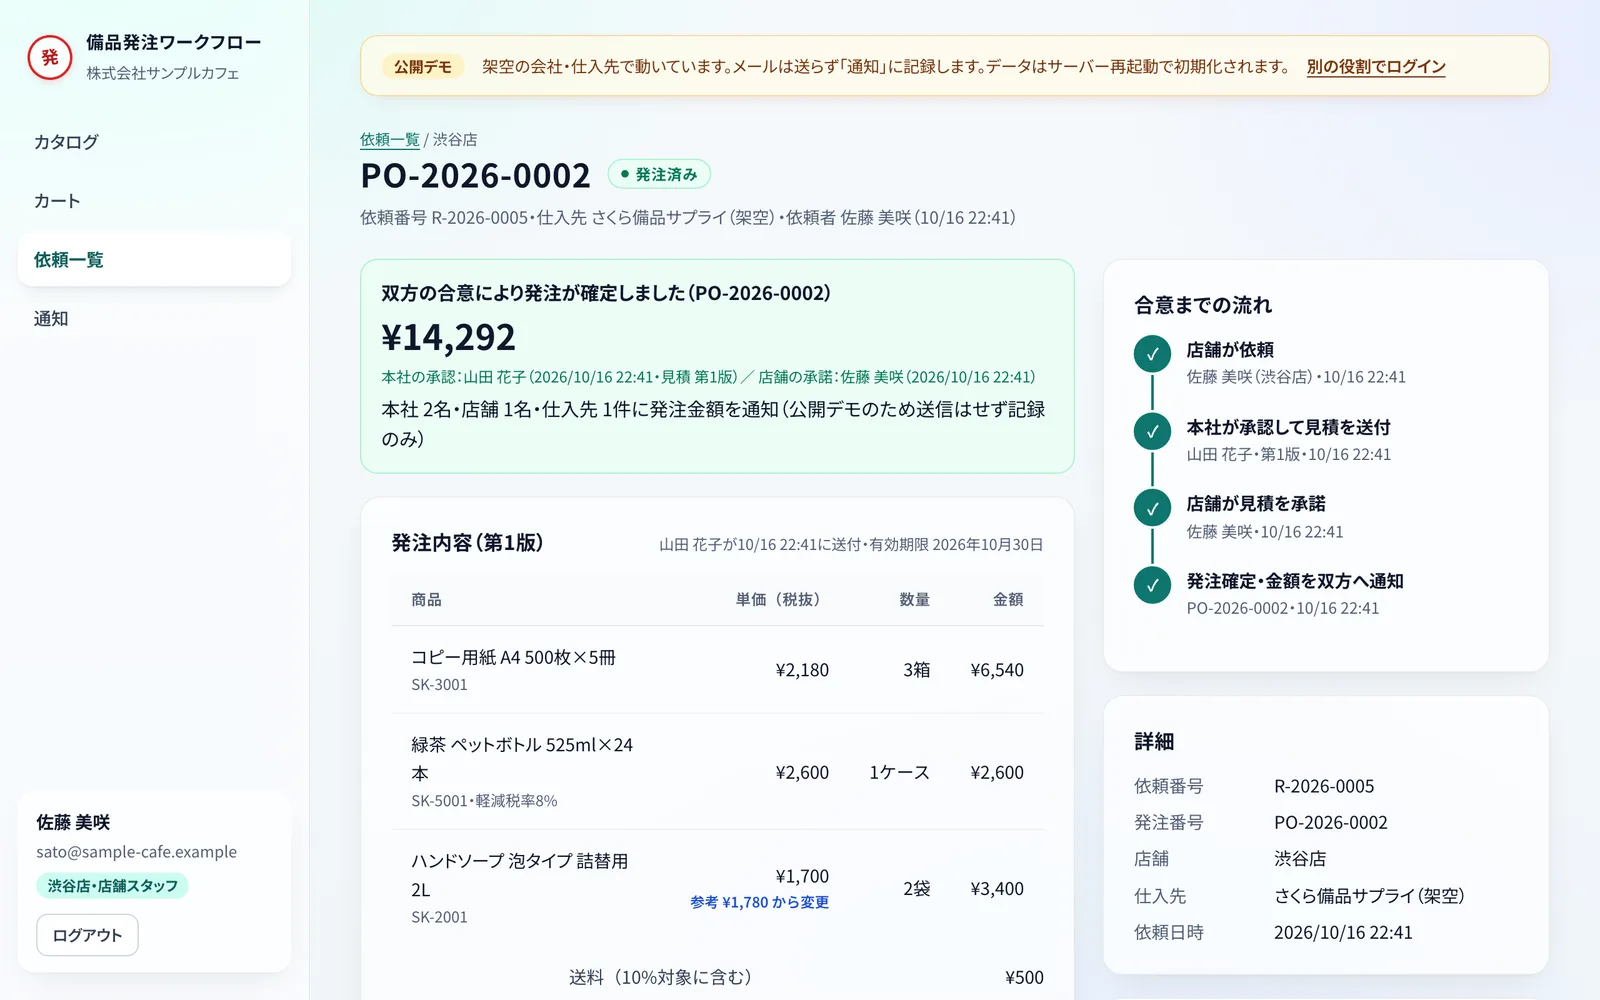
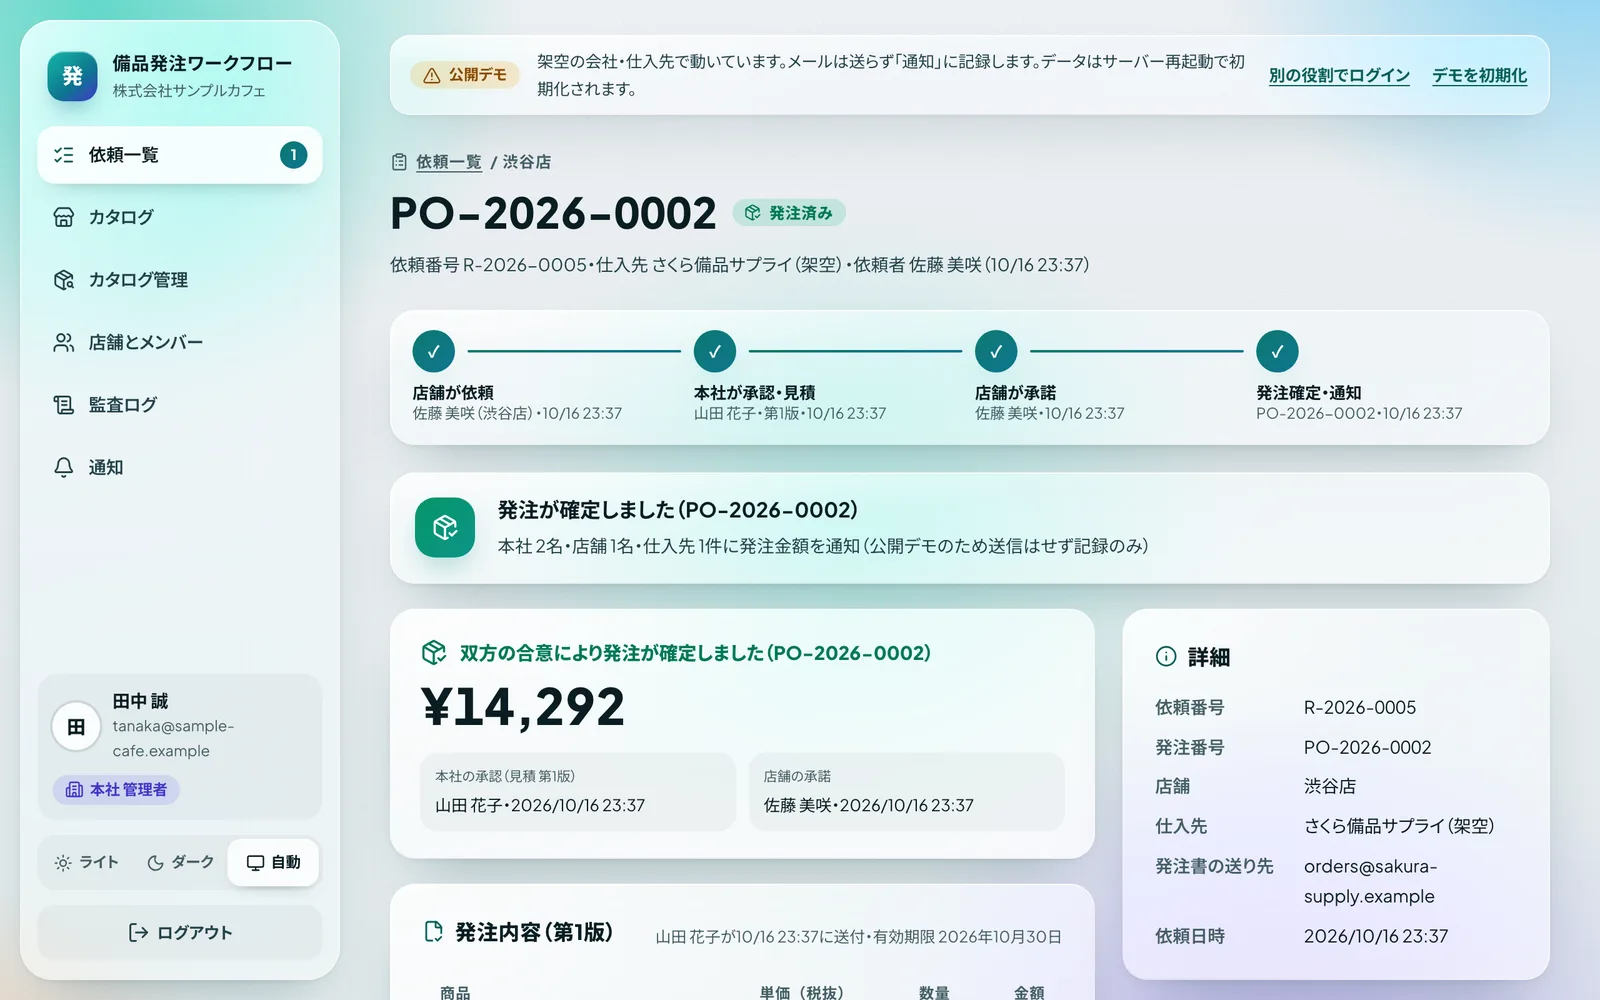
docs: design notes, product photo provenance, new screenshots and GIF
Claude-Session: https://claude.ai/code/session_01TKhMNVnuFWye2HpocXMruX

diff --git a/docs/design.md b/docs/design.md
@@ -1,0 +1,34 @@
+# 画面の設計
+
+## 方針
+
+透けるガラスの素材（すりガラス）を全面に使い、ライト・ダーク・システムに合わせる（自動）の3つを切り替えられるようにしています。素材の扱いは、各プラットフォームの公式の指針に合わせました。
+
+- Apple の Liquid Glass（[Meet Liquid Glass](https://developer.apple.com/videos/play/wwdc2025/219/)、[Get to know the new design system](https://developer.apple.com/videos/play/wwdc2025/356/)）：ガラスは内容の上に浮かぶ「操作と移動の層」に使い、背景の明るさに合わせて見え方を変え、透明度を下げる設定などのアクセシビリティ設定に従う。
+- Microsoft Fluent の [Acrylic](https://learn.microsoft.com/en-us/windows/apps/design/style/acrylic)：素材は「ぼかし＋色味＋粒状感」で作る。ガラスを何枚も重ねない。アクセント色の小さな文字をガラスに直接置かない。透明効果を切る設定では単色にする。
+- UI/UX Pro Max のスタイル表（Glassmorphism、Modern Dark）：ぼかし10〜24px、半透明の面、光の当たる縁、背景に色の光を置く、文字のコントラスト4.5:1以上。
+
+## 具体的な決めごと
+
+| 項目     | 決めたこと                                                                                                                                       | 実装                                                                       |
+| -------- | ------------------------------------------------------------------------------------------------------------------------------------------------ | -------------------------------------------------------------------------- |
+| 素材     | `blur + saturate` に、左上の光沢・縦の艶・縁のハイライト（マスクした線形グラデーション）・粒状感を重ねる                                         | `app/globals.css` の `.glass` / `.card` / `.pane`                          |
+| 層       | サイドバー・スマホの下部タブ・カートの浮き窓・通知の小窓・「次にやること」が一番透ける層。表の入った内容のカードは色味を濃くして読みやすさを優先 | `--glass-clear` / `--glass` / `--glass-strong`                             |
+| 重ねない | カードの中の小さな面（合計欄・入力欄・タブ）はガラスにせず、薄い塗りにする                                                                       | `--fill` / `--well`                                                        |
+| 背景     | 5つの色の光をゆっくり動かす（48秒）。動きを減らす設定では止め、透明度を下げる設定では光もぼかしも消して単色の面にする                            | `body::before` / `prefers-reduced-motion` / `prefers-reduced-transparency` |
+| テーマ   | ライト・ダーク・自動。選んだものはこの端末に保存し、表示前に適用するので、ダークを選んでいても白く光らない                                       | `app/theme-switch.tsx`、`app/layout.tsx` のスクリプト                      |
+| 色       | ティール→シアンを操作の色にし、意味の色（確認待ち・承諾待ち・発注済み・却下）は必ず文字とアイコンを添える                                        | 状態の丸札 `StatusChip`                                                    |
+| 文字     | 和文は Noto Sans JP、数字と英字は Plus Jakarta Sans。金額は等幅数字                                                                              | `--font`、`.num`                                                           |
+| 操作     | どの画面も主な操作は1つ（ボタンの色で区別）。押せる部品は高さ44px以上                                                                            | `.btn.primary`、`.btn`、`.icon-btn`                                        |
+
+## 直感的に使えるようにしたこと
+
+- 依頼の画面の上に4段の進み具合（依頼→見積→承諾→発注）と、「あなたの番」かどうかと次にやることを1つだけ書いた枠を置き、その操作の場所へ移れるボタンを付けた。
+- 依頼一覧の各行に、状態の札・4段の小さな進み具合・「あなたの番」の印を並べた。行のどこを押しても開く。
+- カタログでは検索とカテゴリを上に固定し、カートに入れると画面の下にカートの浮き窓（品目数・点数・参考の合計・依頼へ進むボタン）が出る。
+- カートでは右側の要約欄（合計・希望納期・メモ・依頼ボタン）がスクロールしてもついてくる。
+- スマホでは下部のタブで画面を切り替え、主な操作は親指の届く位置に来る。
+
+## 確かめたこと
+
+`npm run test:e2e` が、ライトとダークの両方で主な画面に axe を流し、WCAG 2.1 A/AA の違反が0件であることを確かめます。テーマの切り替えが保存されることも同じテストで見ています。

diff --git a/docs/verification.md b/docs/verification.md
@@ -1,14 +1,14 @@
 # 検証記録
 
-2026-10-16、macOS（Node.js 24）で次を実行し、すべて成功しました。画面は電話の幅（390px）でも全10画面で横にはみ出さないことを確かめています。CIでは同じ内容をUbuntu・Node.js 22で毎回実行します（実PostgreSQLは16と17の両方）。
+2026-10-16、macOS（Node.js 24）で次を実行し、すべて成功しました。画面は電話の幅（390px）でも全10画面で横にはみ出さないことを確かめています（ガラスのUIに作り替えた後も、主な画面をライト・ダーク・電話の幅で撮って目で確かめました）。CIでは同じ内容をUbuntu・Node.js 22で毎回実行します（実PostgreSQLは16と17の両方）。
 
-| 確認                 | コマンド                                                     | 結果                                                   |
-| -------------------- | ------------------------------------------------------------ | ------------------------------------------------------ |
-| 型                   | `npm run typecheck`                                          | エラー0                                                |
-| 単体・DB（PGlite）   | `npm test`                                                   | 107件成功（実PostgreSQLの6件は環境変数がないため省略） |
-| 実PostgreSQL 17.11   | `RUN_POSTGRES_TESTS=1 npx vitest run tests/postgres.test.ts` | 6件成功                                                |
-| 本番ビルドとブラウザ | `npm run test:e2e`                                           | 7件成功、axeでWCAG 2.1 A/AA違反0件（5画面）            |
-| 書式                 | `npm run format:check`                                       | 差分なし                                               |
+| 確認                 | コマンド                                                     | 結果                                                           |
+| -------------------- | ------------------------------------------------------------ | -------------------------------------------------------------- |
+| 型                   | `npm run typecheck`                                          | エラー0                                                        |
+| 単体・DB（PGlite）   | `npm test`                                                   | 107件成功（実PostgreSQLの6件は環境変数がないため省略）         |
+| 実PostgreSQL 17.11   | `RUN_POSTGRES_TESTS=1 npx vitest run tests/postgres.test.ts` | 6件成功                                                        |
+| 本番ビルドとブラウザ | `npm run test:e2e`                                           | 8件成功、axeでWCAG 2.1 A/AA違反0件（ライト5画面・ダーク3画面） |
+| 書式                 | `npm run format:check`                                       | 差分なし                                                       |
 
 ## 何を確かめているか
 
@@ -64,7 +64,7 @@
 
 ## 公開デモ
 
-2026-10-16、Vercelに公開したデモ（<https://japanese-procurement-workflow.vercel.app>、共有DBはNeon）に対して `E2E_BASE_URL=https://japanese-procurement-workflow.vercel.app npx playwright test` を実行し、7件すべて成功。実行後に管理者の「デモを初期化」で初期の状態（依頼4件）に戻しました。応答にCSP・HSTS・`X-Frame-Options: DENY` が付くことも確認しています。
+2026-10-16、Vercelに公開したデモ（<https://japanese-procurement-workflow.vercel.app>、共有DBはNeon）に対して `E2E_BASE_URL=https://japanese-procurement-workflow.vercel.app npx playwright test` を実行し、7件すべて成功（ダークモードの検査を足す前の時点）。実行後に管理者の「デモを初期化」で初期の状態（依頼4件）に戻しました。応答にCSP・HSTS・`X-Frame-Options: DENY` が付くことも確認しています。
 
 ## 実在の通販サイトでの確認
 

diff --git a/docs/security-publication.md b/docs/security-publication.md
@@ -9,7 +9,7 @@
 - **コミットの作者**：全コミットの作者・コミッターがGitHubのnoreplyアドレス。
 - **個人情報**：メールアドレスは `example` のドメイン（予約済み）のみ。会社・店舗・人物・仕入先・商品・ブランドはすべて架空。手元のファイルパスの混入なし。
 - **実在の仕入先のデータ**：含まない。動作確認で読んだ実在サイトのページは保存していません（[検証記録](verification.md#実在の通販サイトでの確認)）。
-- **画像**：商品の絵はこのリポジトリのスクリプトで描いたSVGを書き出したWebPで、EXIF・XMP・ICCのチャンクなし（`cwebp -metadata none`）。
+- **画像**：架空の仕入先の商品写真は ChatGPT（OpenAIの画像生成）で作ったもので、文字・ロゴ・実在のブランドを入れないよう指示し、1枚ずつ目で確かめています。WebPに書き出す際にメタデータを除き（`cwebp -metadata none`）、EXIF・XMP・ICCのチャンクがないことを確認しました。AIで作った画像であることは README と [ADR 005](adr/005-demo-without-network.md) に明記しています。
 - **依存パッケージ**：CIで `npm audit signatures`（レジストリ署名の検証）と、本番依存の高リスク以上の脆弱性で失敗する監査を毎回実行します。メール送信の `nodemailer` は、公開から2週間以上経った版（10.0.13）に固定しています。
 
 ## レビューで見つけて直したこと

diff --git a/docs/adr/005-demo-without-network.md b/docs/adr/005-demo-without-network.md
@@ -4,7 +4,7 @@
 
 公開デモ（`APP_MODE=demo`）は、架空の仕入先「さくら備品サプライ」のサイトを `public/demo-supplier/` に同梱し、予約済みのドメイン `https://sakura-supply.example` のURLをそのファイルに対応づけて読む。取り込みの処理（robots.txt・一覧からの巡回・JSON-LDの読み取り・画像の判定）は実運用と同じで、ネットワークに出る部分だけを差し替えている。それ以外のURLは取り込めない。
 
-架空のサイトは `npm run supplier:build` が `src/demo/supplier-data.ts` から作る。商品の絵はSVGで描いてChromiumで書き出し、WebPにしている。メールは送らず、送る予定だった内容を画面の「通知」に出す。
+架空のサイトは `npm run supplier:build` が `src/demo/supplier-data.ts` から作る。商品写真は ChatGPT（OpenAIの画像生成）で6枚ずつ格子状に作らせて切り出したもので、プロンプトは `scripts/demo-supplier/photo-prompts/` に残している（文字・ロゴ・手・人物を禁止し、全23枚を目で確かめた）。メールは送らず、送る予定だった内容を画面の「通知」に出す。
 
 ## 理由
 
